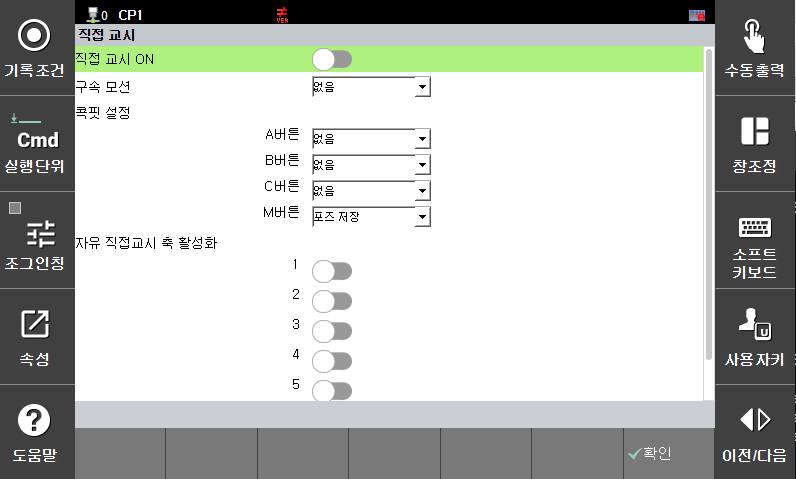
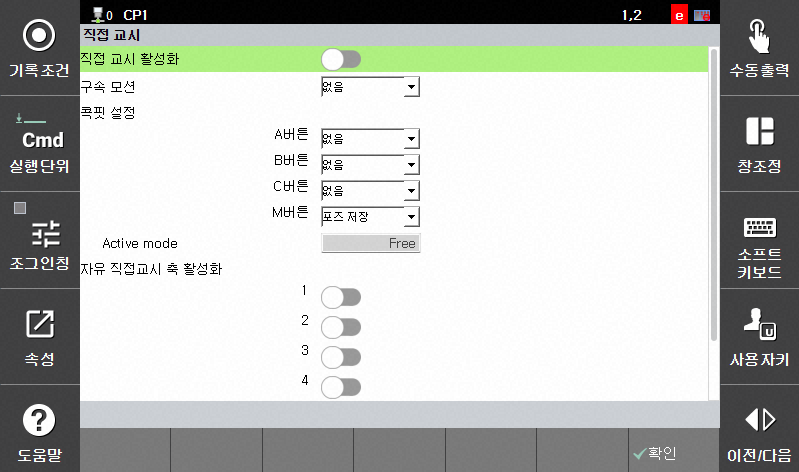
직접교시 UI 변경으로 인한 메뉴얼 변경

Changed region(s): [[0.0, 0.0, 1.0, 1.0], [0.392, 0.089, 0.5427, 0.2076], [0.3317, 0.0, 0.3618, 0.0593]]

diff --git a/book.md b/book.md
@@ -227,27 +227,29 @@ job 기준으로 100 ~ 200회 사이로 설정하는 것을 권장합니다.
 
 ![](../../_assets/image57.png)
 
-* **직접 교시(Direct teaching On)**: 모터온 시 바로 직접교시로 동작합니다.(SHIFT + MOT. ON + Enable Switch) Enable Switch가 눌러져 있어야만 모터온이며, 직접교시가 구동된다. 다시 조그나 자동으로 로봇을 원할 경우 설정내 '직접교시 ON (Direct teaching On)'를 OFF 해야함 
+* **직접 교시 활성화 (Direct teaching On)**: 모터온 시 바로 직접교시로 동작합니다. Enable Switch가 눌러져 있어야만 모터온이며, 직접교시가 구동됩니다. 다시 조그나 자동으로 로봇을 원할 경우 설정내 '직접 교시 활성화 (Direct teaching On)'를 OFF 해야함 
 * **구속 모션(Constraint motion)**: 직접교시가 실행될때 기본 모드를 결정합니다. '없음'을 선택했을 경우 FREE 모드로 실행 되며, 모터온 중 다른 모드로 바꾸지 못하지만 그 외 다른 모드에선 직접교시 실행 중 모드 변경이 가능합니다.
 
 ![](../../_assets/image60.png) 
 
-4. 위 사진은 협동로봇 시리즈 HDC에 부착된 콕핏 버튼을 형상황한 그림입니다. 참고하여 아래 콕핏 설정을 읽어주시기 바랍니다.
+- 위 사진은 협동로봇 시리즈 HDC에 부착된 콕핏 버튼을 형상황한 그림입니다. 참고하여 아래 콕핏 설정을 읽어주시기 바랍니다.
+
 * **콕핏 설정(Cockpit setting)**: 콕핏 버튼(Cockpit)의 모드를 결정합니다. 
-- 각각의 '콕핏 A, B, C 버튼'은 아래의 보기중 하나의 기능을 가질 수 있습니다.
-    - 'XYZ' = X, Y, Z 제외 cartesian 구속 모션으로 직접교시 모드를 변경합니다.(직접교시 구속모션 중에만 가능)
-    - 'XY'  = X, Y 제외 cartesian 구속 모션으로 직접교시 모드를 변경합니다.(직접교시 구속모션 중에만 가능) 
-    - 'X'   = X 제외 cartesian 구속 모션으로 직접교시 모드를 변경합니다.(직접교시 구속모션 중에만 가능)
-    - 'Y'   = Y 제외 cartesian 구속 모션으로 직접교시 모드를 변경합니다.(직접교시 구속모션 중에만 가능)
-    - 'Z'   = Z 제외 cartesian 구속 모션으로 직접교시 모드를 변경합니다.(직접교시 구속모션 중에만 가능)
-    - 'Rx'  = Rx 제외 cartesian 구속 모션으로 직접교시 모드를 변경합니다.(직접교시 구속모션 중에만 가능)
-    - 'Ry'  = Ry 제외 cartesian 구속 모션으로 직접교시 모드를 변경합니다.(직접교시 구속모션 중에만 가능)
-    - 'Rz'  = Rz 제외 cartesian 구속 모션으로 직접교시 모드를 변경합니다.(직접교시 구속모션 중에만 가능)
-    - '없음(None)'= 눌러도 변화가 없습니다.
+    - 각각의 '콕핏 A, B, C 버튼'은 아래의 보기중 하나의 기능을 가질 수 있습니다.
+        - 'XYZ' = X, Y, Z 제외 cartesian 구속 모션으로 직접교시 모드를 변경합니다.(직접교시 구속모션 중에만 가능)
+        - 'XY'  = X, Y 제외 cartesian 구속 모션으로 직접교시 모드를 변경합니다.(직접교시 구속모션 중에만 가능) 
+        - 'X'   = X 제외 cartesian 구속 모션으로 직접교시 모드를 변경합니다.(직접교시 구속모션 중에만 가능)
+        - 'Y'   = Y 제외 cartesian 구속 모션으로 직접교시 모드를 변경합니다.(직접교시 구속모션 중에만 가능)
+        - 'Z'   = Z 제외 cartesian 구속 모션으로 직접교시 모드를 변경합니다.(직접교시 구속모션 중에만 가능)
+        - 'Rx'  = Rx 제외 cartesian 구속 모션으로 직접교시 모드를 변경합니다.(직접교시 구속모션 중에만 가능)
+        - 'Ry'  = Ry 제외 cartesian 구속 모션으로 직접교시 모드를 변경합니다.(직접교시 구속모션 중에만 가능)
+        - 'Rz'  = Rz 제외 cartesian 구속 모션으로 직접교시 모드를 변경합니다.(직접교시 구속모션 중에만 가능)
+        - '없음(None)'= 눌러도 변화가 없습니다.
 
 - '콕핏 M 버튼'은 아래 보기와 같은 메뉴를 갖습니다.
     - '포즈 저장' = 로봇의 현재 위치를 현재 TP상 열려있는 잡파일에 기록합니다. 
 
+* **Active Mode** : 현재 실행중인 모드를 확인할 수 있습니다. 표시 형식은 '콕핏 설정'과 동일합니다.
 
 * **자유 직접교시 축 활성화(Joint Direct Teaching Axis Activate)**:자율 직접교시 중 활성화시에만 선택한 축 구동가능
 
@@ -255,9 +257,9 @@ job 기준으로 100 ~ 200회 사이로 설정하는 것을 권장합니다.
 **\[주의]**
 
 * 툴 데이터가 실제 값과 오차가 클 경우 직접교시가 실행되지 않을 수 있습니다. 직접교시가 계속 실행되지 않을 경우 로봇을 멈추고 툴 데이터 입력값을 확인하기 바랍니다.
-* 직접교시를 실행하고 할때 motor on/Enable Switch/shift를 동시에 눌러주시기 바랍니다.
+* 직접교시를 실행하고 할때 기존 조그와 동일한 방식으로 실행하시면 됩니다.
 * 모터온 후 Enable Switch를 누르고 계셔야만 직접교시가 계속 실행됩니다.
-* 직접교시 실행 중 'Direct teaching On'을 off로 변경하시거나 Enable Switch에서 손을 때시면 직접교시가 정지 됩니다.
+* 직접교시 실행 중 '직접 교시 활성화(Direct teaching On)'를 OFF로 변경하시거나 Enable Switch에서 손을 때시면 직접교시가 정지 됩니다.
 * 직접교시 실행시 로봇 주변 사물이나 사람을 확인후 동작해주시기 바랍니다.
 * 두개 이상의 버튼이 동시에 눌러질 경우 처음 누른 버튼만 인식합니다.
 * 직접교시 중 TP를 이용하여 로봇을 자동으로 돌릴 경우 로봇이 바로 정지합니다. 이 경우 긴급 정리이기 때문에 위험합니다.
@@ -337,6 +339,7 @@ job 기준으로 100 ~ 200회 사이로 설정하는 것을 권장합니다.
     - 협동 모드 활성화 :  협동 모드 사용 여부를 설정합니다. 
     - 협동 모드 최고속 설정 : 사용자가 입력할 협동모드 최고속입니다. 250 ~ 1000 mm/s 사이 값을 입력할 수 있습니다.(디폴트 : 800 mm/s)
     - 설정된 협동 모드 최고속 : 현재 협동 로봇의 최고속을 알려줍니다. 위 기능은 충돌감지 및 안전 모션내 설정값까지 반영된 최종 최고속입니다.
+    - 전체 적용 클릭 후 맞는 비밀번호를 입력해야 저장됩니다.
 
 {% hint style="warning" %}
 **\[주의]**

diff --git a/1-cobot-safety-function/1-4-cobot-direct-teaching-mode/1-cobot-direct-teaching-setup.md b/1-cobot-safety-function/1-4-cobot-direct-teaching-mode/1-cobot-direct-teaching-setup.md
@@ -10,27 +10,29 @@
 
 ![](../../_assets/image57.png)
 
-* **직접 교시(Direct teaching On)**: 모터온 시 바로 직접교시로 동작합니다.(SHIFT + MOT. ON + Enable Switch) Enable Switch가 눌러져 있어야만 모터온이며, 직접교시가 구동된다. 다시 조그나 자동으로 로봇을 원할 경우 설정내 '직접교시 ON (Direct teaching On)'를 OFF 해야함 
+* **직접 교시 활성화 (Direct teaching On)**: 모터온 시 바로 직접교시로 동작합니다. Enable Switch가 눌러져 있어야만 모터온이며, 직접교시가 구동됩니다. 다시 조그나 자동으로 로봇을 원할 경우 설정내 '직접 교시 활성화 (Direct teaching On)'를 OFF 해야함 
 * **구속 모션(Constraint motion)**: 직접교시가 실행될때 기본 모드를 결정합니다. '없음'을 선택했을 경우 FREE 모드로 실행 되며, 모터온 중 다른 모드로 바꾸지 못하지만 그 외 다른 모드에선 직접교시 실행 중 모드 변경이 가능합니다.
 
 ![](../../_assets/image60.png) 
 
-4. 위 사진은 협동로봇 시리즈 HDC에 부착된 콕핏 버튼을 형상황한 그림입니다. 참고하여 아래 콕핏 설정을 읽어주시기 바랍니다.
+- 위 사진은 협동로봇 시리즈 HDC에 부착된 콕핏 버튼을 형상황한 그림입니다. 참고하여 아래 콕핏 설정을 읽어주시기 바랍니다.
+
 * **콕핏 설정(Cockpit setting)**: 콕핏 버튼(Cockpit)의 모드를 결정합니다. 
-- 각각의 '콕핏 A, B, C 버튼'은 아래의 보기중 하나의 기능을 가질 수 있습니다.
-    - 'XYZ' = X, Y, Z 제외 cartesian 구속 모션으로 직접교시 모드를 변경합니다.(직접교시 구속모션 중에만 가능)
-    - 'XY'  = X, Y 제외 cartesian 구속 모션으로 직접교시 모드를 변경합니다.(직접교시 구속모션 중에만 가능) 
-    - 'X'   = X 제외 cartesian 구속 모션으로 직접교시 모드를 변경합니다.(직접교시 구속모션 중에만 가능)
-    - 'Y'   = Y 제외 cartesian 구속 모션으로 직접교시 모드를 변경합니다.(직접교시 구속모션 중에만 가능)
-    - 'Z'   = Z 제외 cartesian 구속 모션으로 직접교시 모드를 변경합니다.(직접교시 구속모션 중에만 가능)
-    - 'Rx'  = Rx 제외 cartesian 구속 모션으로 직접교시 모드를 변경합니다.(직접교시 구속모션 중에만 가능)
-    - 'Ry'  = Ry 제외 cartesian 구속 모션으로 직접교시 모드를 변경합니다.(직접교시 구속모션 중에만 가능)
-    - 'Rz'  = Rz 제외 cartesian 구속 모션으로 직접교시 모드를 변경합니다.(직접교시 구속모션 중에만 가능)
-    - '없음(None)'= 눌러도 변화가 없습니다.
+    - 각각의 '콕핏 A, B, C 버튼'은 아래의 보기중 하나의 기능을 가질 수 있습니다.
+        - 'XYZ' = X, Y, Z 제외 cartesian 구속 모션으로 직접교시 모드를 변경합니다.(직접교시 구속모션 중에만 가능)
+        - 'XY'  = X, Y 제외 cartesian 구속 모션으로 직접교시 모드를 변경합니다.(직접교시 구속모션 중에만 가능) 
+        - 'X'   = X 제외 cartesian 구속 모션으로 직접교시 모드를 변경합니다.(직접교시 구속모션 중에만 가능)
+        - 'Y'   = Y 제외 cartesian 구속 모션으로 직접교시 모드를 변경합니다.(직접교시 구속모션 중에만 가능)
+        - 'Z'   = Z 제외 cartesian 구속 모션으로 직접교시 모드를 변경합니다.(직접교시 구속모션 중에만 가능)
+        - 'Rx'  = Rx 제외 cartesian 구속 모션으로 직접교시 모드를 변경합니다.(직접교시 구속모션 중에만 가능)
+        - 'Ry'  = Ry 제외 cartesian 구속 모션으로 직접교시 모드를 변경합니다.(직접교시 구속모션 중에만 가능)
+        - 'Rz'  = Rz 제외 cartesian 구속 모션으로 직접교시 모드를 변경합니다.(직접교시 구속모션 중에만 가능)
+        - '없음(None)'= 눌러도 변화가 없습니다.
 
 - '콕핏 M 버튼'은 아래 보기와 같은 메뉴를 갖습니다.
     - '포즈 저장' = 로봇의 현재 위치를 현재 TP상 열려있는 잡파일에 기록합니다. 
 
+* **Active Mode** : 현재 실행중인 모드를 확인할 수 있습니다. 표시 형식은 '콕핏 설정'과 동일합니다.
 
 * **자유 직접교시 축 활성화(Joint Direct Teaching Axis Activate)**:자율 직접교시 중 활성화시에만 선택한 축 구동가능
 
@@ -38,9 +40,9 @@
 **\[주의]**
 
 * 툴 데이터가 실제 값과 오차가 클 경우 직접교시가 실행되지 않을 수 있습니다. 직접교시가 계속 실행되지 않을 경우 로봇을 멈추고 툴 데이터 입력값을 확인하기 바랍니다.
-* 직접교시를 실행하고 할때 motor on/Enable Switch/shift를 동시에 눌러주시기 바랍니다.
+* 직접교시를 실행하고 할때 기존 조그와 동일한 방식으로 실행하시면 됩니다.
 * 모터온 후 Enable Switch를 누르고 계셔야만 직접교시가 계속 실행됩니다.
-* 직접교시 실행 중 'Direct teaching On'을 off로 변경하시거나 Enable Switch에서 손을 때시면 직접교시가 정지 됩니다.
+* 직접교시 실행 중 '직접 교시 활성화(Direct teaching On)'를 OFF로 변경하시거나 Enable Switch에서 손을 때시면 직접교시가 정지 됩니다.
 * 직접교시 실행시 로봇 주변 사물이나 사람을 확인후 동작해주시기 바랍니다.
 * 두개 이상의 버튼이 동시에 눌러질 경우 처음 누른 버튼만 인식합니다.
 * 직접교시 중 TP를 이용하여 로봇을 자동으로 돌릴 경우 로봇이 바로 정지합니다. 이 경우 긴급 정리이기 때문에 위험합니다.

diff --git a/1-cobot-safety-function/1-6-cobot-general-set/1-co-op-mode-setting.md b/1-cobot-safety-function/1-6-cobot-general-set/1-co-op-mode-setting.md
@@ -9,6 +9,7 @@
     - 협동 모드 활성화 :  협동 모드 사용 여부를 설정합니다. 
     - 협동 모드 최고속 설정 : 사용자가 입력할 협동모드 최고속입니다. 250 ~ 1000 mm/s 사이 값을 입력할 수 있습니다.(디폴트 : 800 mm/s)
     - 설정된 협동 모드 최고속 : 현재 협동 로봇의 최고속을 알려줍니다. 위 기능은 충돌감지 및 안전 모션내 설정값까지 반영된 최종 최고속입니다.
+    - 전체 적용 클릭 후 맞는 비밀번호를 입력해야 저장됩니다.
 
 {% hint style="warning" %}
 **\[주의]**
